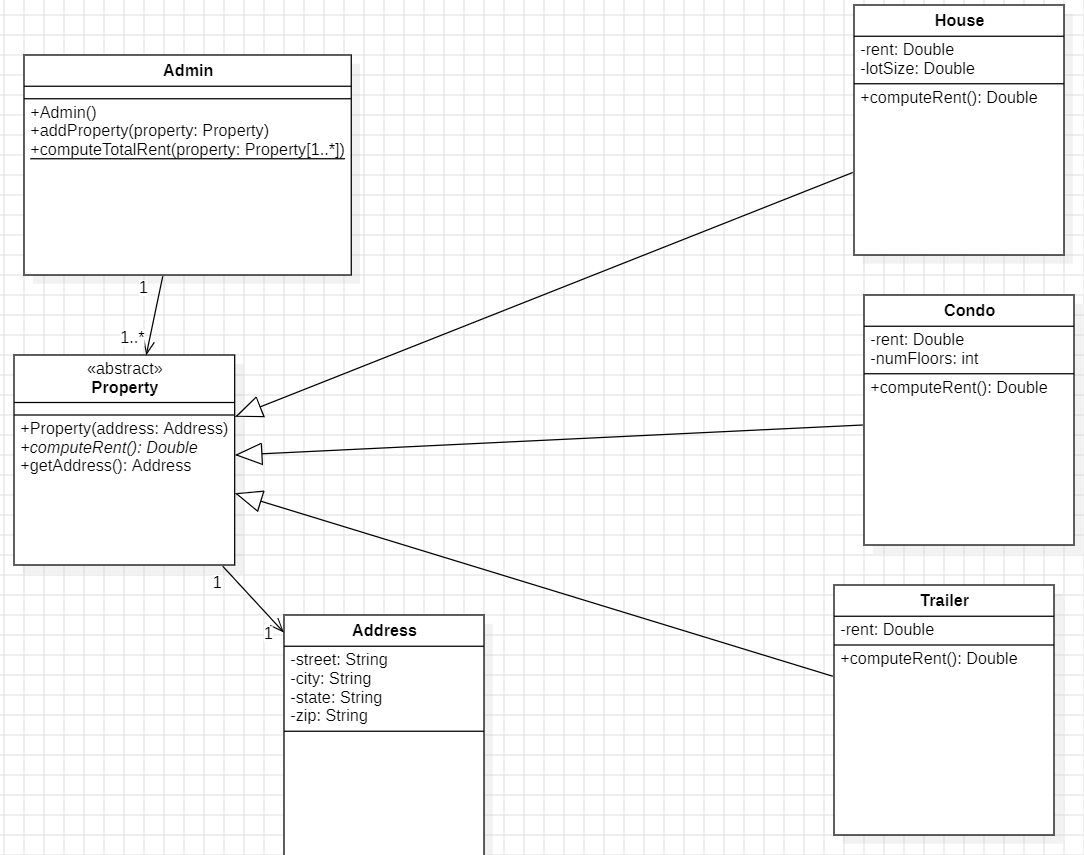
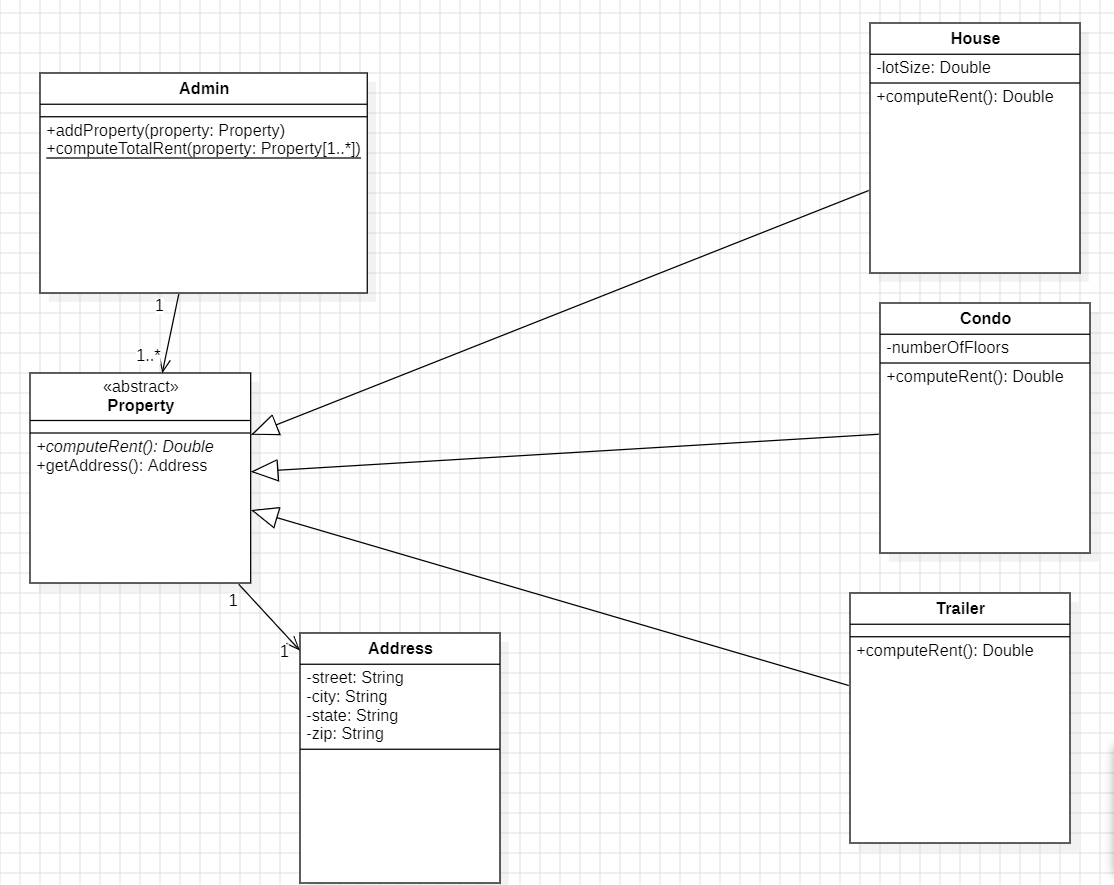
Add: improve the class diagram of lab3 3 assignment and create new folder

diff --git a/src/modernpractises/labs/lab04/lab04_C/Employee.java b/src/modernpractises/labs/lab04/lab04_C/Employee.java
@@ -1,0 +1,5 @@
+package modernpractises.labs.lab04.lab04_C;
+
+public class Employee {
+
+}
